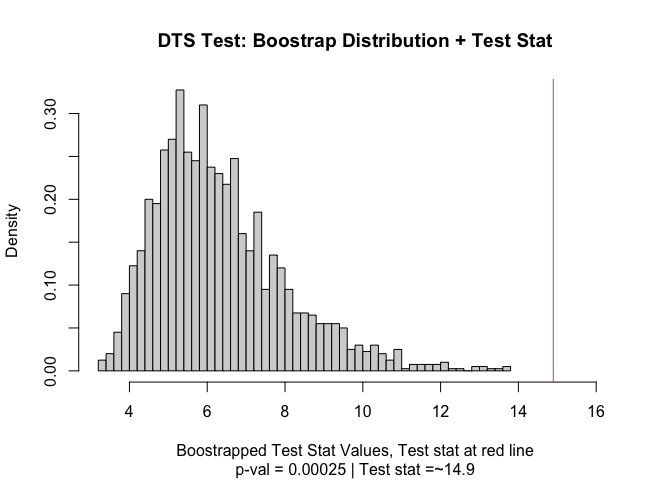
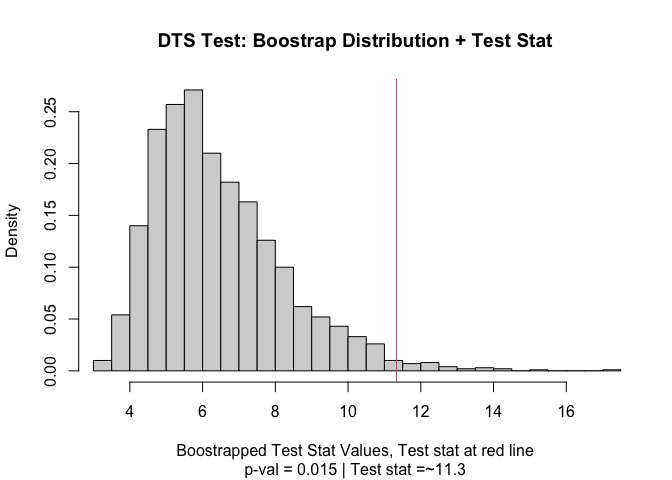
updating site

diff --git a/docs/index.html b/docs/index.html
@@ -101,23 +101,18 @@
 <span><span class="va">output</span> <span class="op">=</span> <span class="fu"><a href="reference/two_sample.html">two_sample</a></span><span class="op">(</span><span class="va">vec1</span>,<span class="va">vec2</span><span class="op">)</span></span>
 <span><span class="va">output</span></span>
 <span><span class="co">#&gt; Test Stat   P-Value </span></span>
-<span><span class="co">#&gt;  14.89630   0.00025</span></span>
-<span><span class="co">#&gt; No bootstrap values were more extreme than the observed value. </span></span>
-<span><span class="co">#&gt;  p-value = 1/(2*bootstraps) is an imprecise placeholder</span></span>
+<span><span class="co">#&gt;  11.33121   0.01500</span></span>
 <span><span class="fu"><a href="https://rdrr.io/r/base/summary.html" class="external-link">summary</a></span><span class="op">(</span><span class="va">output</span><span class="op">)</span></span>
 <span><span class="co">#&gt; DTS Test </span></span>
 <span><span class="co">#&gt; =========================</span></span>
-<span><span class="co">#&gt; Test Statistic: 14.8963 </span></span>
-<span><span class="co">#&gt;        P-Value: 0.00025 *</span></span>
+<span><span class="co">#&gt; Test Statistic: 11.33121 </span></span>
+<span><span class="co">#&gt;        P-Value: 0.015 *</span></span>
 <span><span class="co">#&gt; - - - - - - - - - - - - -</span></span>
 <span><span class="co">#&gt;      n1      n2 n.boots </span></span>
 <span><span class="co">#&gt;     100     100    2000 </span></span>
 <span><span class="co">#&gt; =========================</span></span>
-<span><span class="co">#&gt; Test stat rejection threshold for alpha = 0.05 is: 9.532266 </span></span>
+<span><span class="co">#&gt; Test stat rejection threshold for alpha = 0.05 is: 9.949129 </span></span>
 <span><span class="co">#&gt; Null rejected: samples are from different distributions</span></span>
-<span><span class="co">#&gt;  Max observed bootstrap value: 13.77085</span></span>
-<span><span class="co">#&gt; No bootstrap values were more extreme than the observed value. </span></span>
-<span><span class="co">#&gt;  p-value = 1/(2*bootstraps) is an imprecise placeholder</span></span>
 <span><span class="fu"><a href="https://rdrr.io/r/graphics/plot.default.html" class="external-link">plot</a></span><span class="op">(</span><span class="va">output</span><span class="op">)</span></span></code></pre></div>
 <p><img src="reference/figures/example1-1.png" width="100%"></p>
 </div>

diff --git a/docs/news/index.html b/docs/news/index.html
@@ -46,11 +46,12 @@
 
     <div class="section level2">
 <h2 class="pkg-version" data-toc-text="2.0.1" id="version-201">version 2.0.1<a class="anchor" aria-label="anchor" href="#version-201"></a></h2>
-<p>This update contains a single minor bugfix.</p>
+<p>This update contains two minor bugfixes.</p>
 <div class="section level5">
 <h5 id="summary-2-0-1">Summary<a class="anchor" aria-label="anchor" href="#summary-2-0-1"></a></h5>
-<p>Some of the unit tests use random numbers, one of those unit tests looking at the function <code>combine.twosamples</code> failed to consider default (desired) behavior for some possible values of those random numbers, and would occasionally fail. This was a minor issue that would not negatively impact any users, <em>except</em> that it would occasionally cause a CRAN check to fail, which could cause trouble. This update aims to fix the <em>test</em>, leaving all actual functionality unchanged, so that there should not be further CRAN check failures from this issue.</p>
-</div>
+<ol style="list-style-type: decimal"><li>Some of the unit tests use random numbers, one of those unit tests looking at the function <code>combine.twosamples</code> failed to consider default (desired) behavior for some possible values of those random numbers, and would occasionally fail. This was a minor issue that would not negatively impact any users, <em>except</em> that it would occasionally cause a CRAN check to fail, which could cause trouble. This update aims to fix the <em>test</em>, leaving all actual functionality unchanged, so that there should not be further CRAN check failures from this issue.</li>
+<li>Removed “C++11” from “System Requirements” – as per current CRAN guidelines. The presence of C++11 as a requirement caused a note for R-CMD-Check in R4.3.0 and up. Currently, the lack of such a requirement does not affect compilation on any tested systems.</li>
+</ol></div>
 </div>
     <div class="section level2">
 <h2 class="pkg-version" data-toc-text="2.0.0" id="version-200">version 2.0.0<a class="anchor" aria-label="anchor" href="#version-200"></a></h2><p class="text-muted">CRAN release: 2022-07-12</p>

diff --git a/README.md b/README.md
@@ -62,23 +62,18 @@ vec2 = rnorm(100,0.5)
 output = two_sample(vec1,vec2)
 output
 #> Test Stat   P-Value 
-#>  14.89630   0.00025
-#> No bootstrap values were more extreme than the observed value. 
-#>  p-value = 1/(2*bootstraps) is an imprecise placeholder
+#>  11.33121   0.01500
 summary(output)
 #> DTS Test 
 #> =========================
-#> Test Statistic: 14.8963 
-#>        P-Value: 0.00025 *
+#> Test Statistic: 11.33121 
+#>        P-Value: 0.015 *
 #> - - - - - - - - - - - - -
 #>      n1      n2 n.boots 
 #>     100     100    2000 
 #> =========================
-#> Test stat rejection threshold for alpha = 0.05 is: 9.532266 
+#> Test stat rejection threshold for alpha = 0.05 is: 9.949129 
 #> Null rejected: samples are from different distributions
-#>  Max observed bootstrap value: 13.77085
-#> No bootstrap values were more extreme than the observed value. 
-#>  p-value = 1/(2*bootstraps) is an imprecise placeholder
 plot(output)
 ```
 
